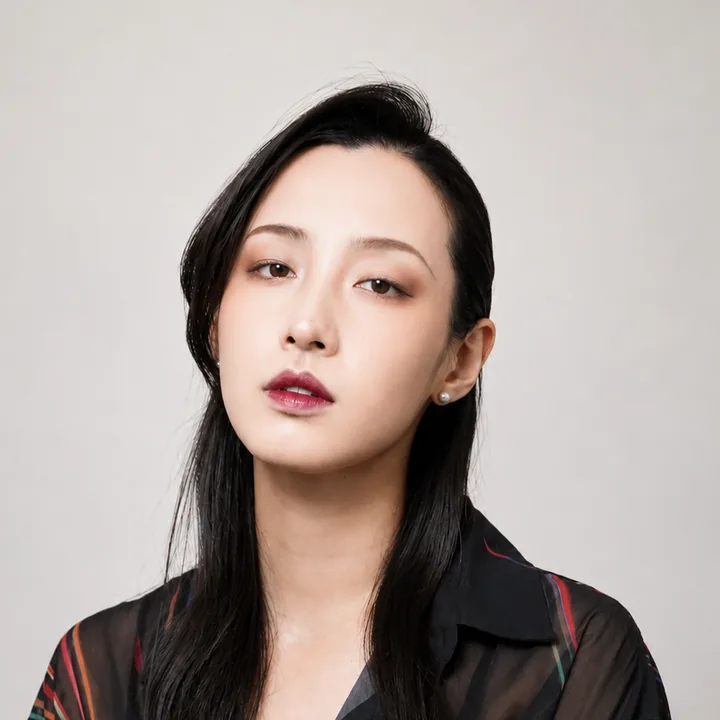
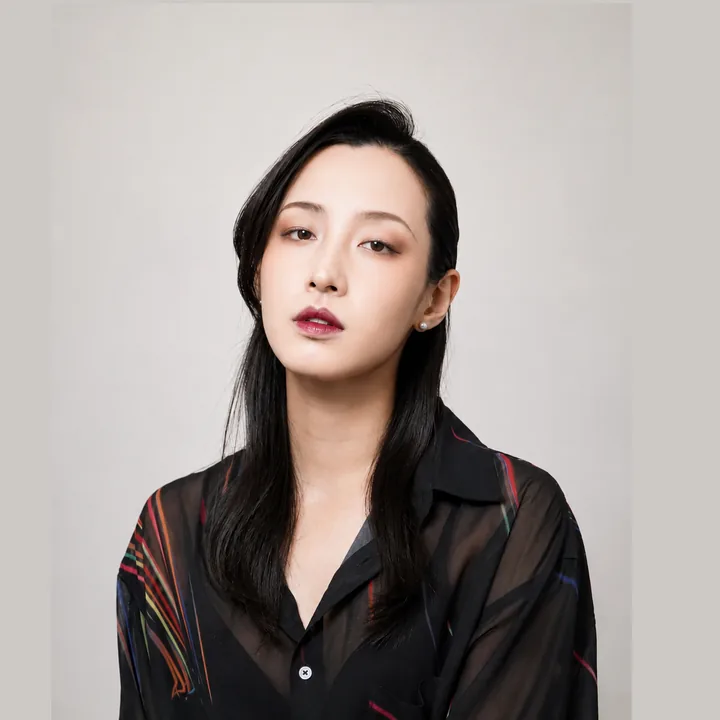
言祝ぎの家LP：参加費を6,500円に、ハッシュタグを「#ウワサバナシ調査委員会2」に、椎名さんの写真を引きに
- 参加費 7,500円 → 6,500円（本文・meta description・構造化データ・llms.txt）
- ハッシュタグを「#ウワサバナシ調査委員会2」に変更し、見出しを「公式ハッシュタグ」に
- 椎名さんの写真：枠の窓に主催側の見本（頭上に余白・肩まで）が収まるよう引きに切り直し

Claude-Session: https://claude.ai/code/session_01MTWjuPFVkqbTtYkDqx6tuy

diff --git a/docs/kotohogi-lp.md b/docs/kotohogi-lp.md
@@ -98,3 +98,4 @@
 - 内部リンク：case1 LP（/uwasabanashi/）の終了表示から case2 へ（固定ボタン・チケット欄、data-track="show"）。LP フッターから case1・会社概要へ。
 - 2026-10-05：各見出し下の「調査記録　第◯項」をすべて削除（主催側指示）。
 - 2026-10-05：冒頭の「開催日程・チケットを見る」もページ内の日程欄ではなく販売ページ（ESCAPE.ID）へ（data-place="hero"）。購入ボタン4か所すべて販売ページへ遷移することをブラウザで確認。
+- 2026-10-05 主催側指示：参加費を 1名6,500円に（本文4か所・meta description・構造化データ price・llms.txt）。ハッシュタグを「#ウワサバナシ調査委員会2」に（見出しは「シリーズ共通ハッシュタグ」→「公式ハッシュタグ」）。椎名さんの写真は枠の窓に見本（頭上に余白・肩まで）が収まるよう正方形を大きく取り、写真外はスタジオ背景色（205,200,196）で埋めた。
